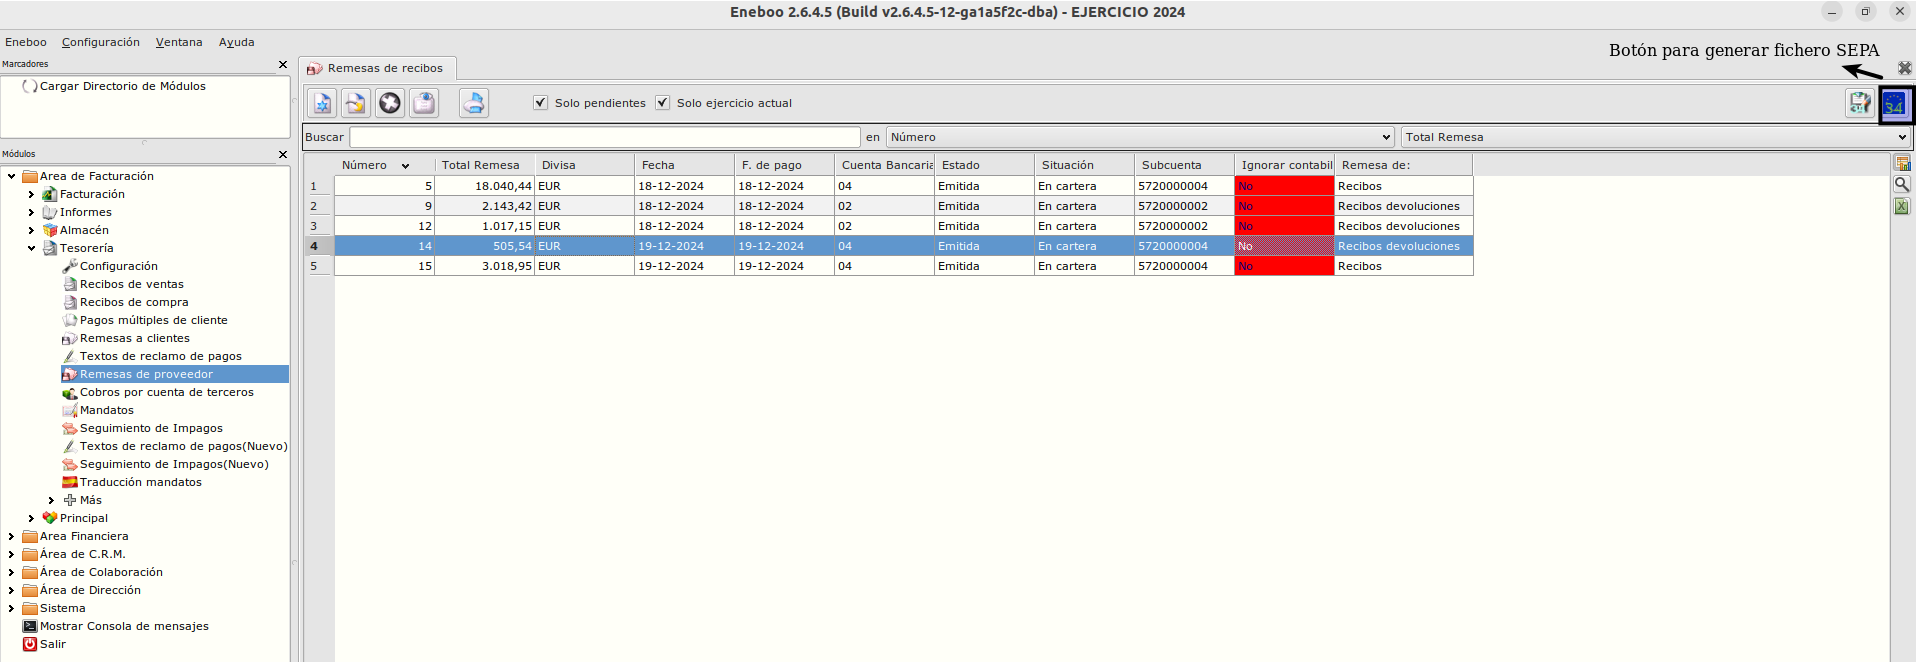
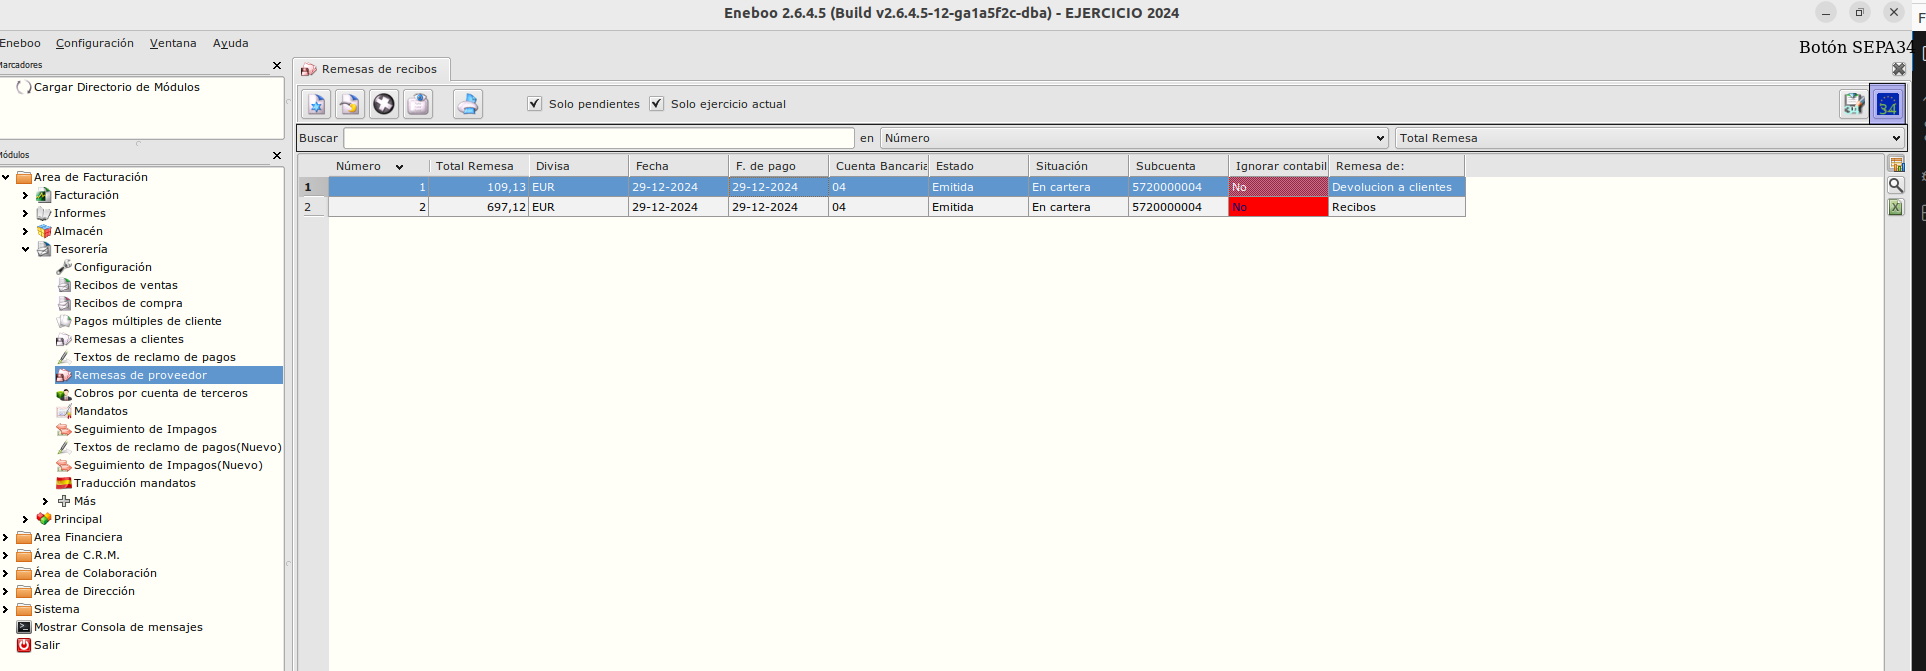
(fix) Manual ext. remesa_devol_cli. Cambio del nombre de valor del campo tipo remesa.

Changed region(s): [[0.0, 0.0, 1.0, 1.0], [0.3691, 0.0, 0.6152, 0.0302], [0.0615, 0.1813, 0.0923, 0.2115]]

diff --git a/extensiones/remesa_devol_cli/index.md b/extensiones/remesa_devol_cli/index.md
@@ -5,7 +5,7 @@ Esta extensión permite incluir recibos de clientes con importe negativo (pagos)
 ## Creación de remesa de pago
 Para la creación de una remesa de pago seguiremos los siguientes pasos.
 - Desde el **Área de Facturación -> Tesorería -> Remesas de proveedor** pulsaremos en nuevo registro para generar una remesa.
-- Informaremos la _Cuenta Bancaría_ y el tipo de remesa (Remesa de:) con valor _Recibos devoluciones_. Se activará la pestaña _Pagos a clientes_.
+- Informaremos la _Cuenta Bancaría_ y el tipo de remesa (Remesa de:) con valor _Devolucion a clientes_. Se activará la pestaña _Pagos a clientes_.
 - Desde esta la pestaña podemos añadir recibos de clientes con importes negativos. Una vez se añaden los recibos se guarda el formulario y la remesa de pago ya esta creada.
 
 ![Factura proveedor](./img/remesa_pago.png)
